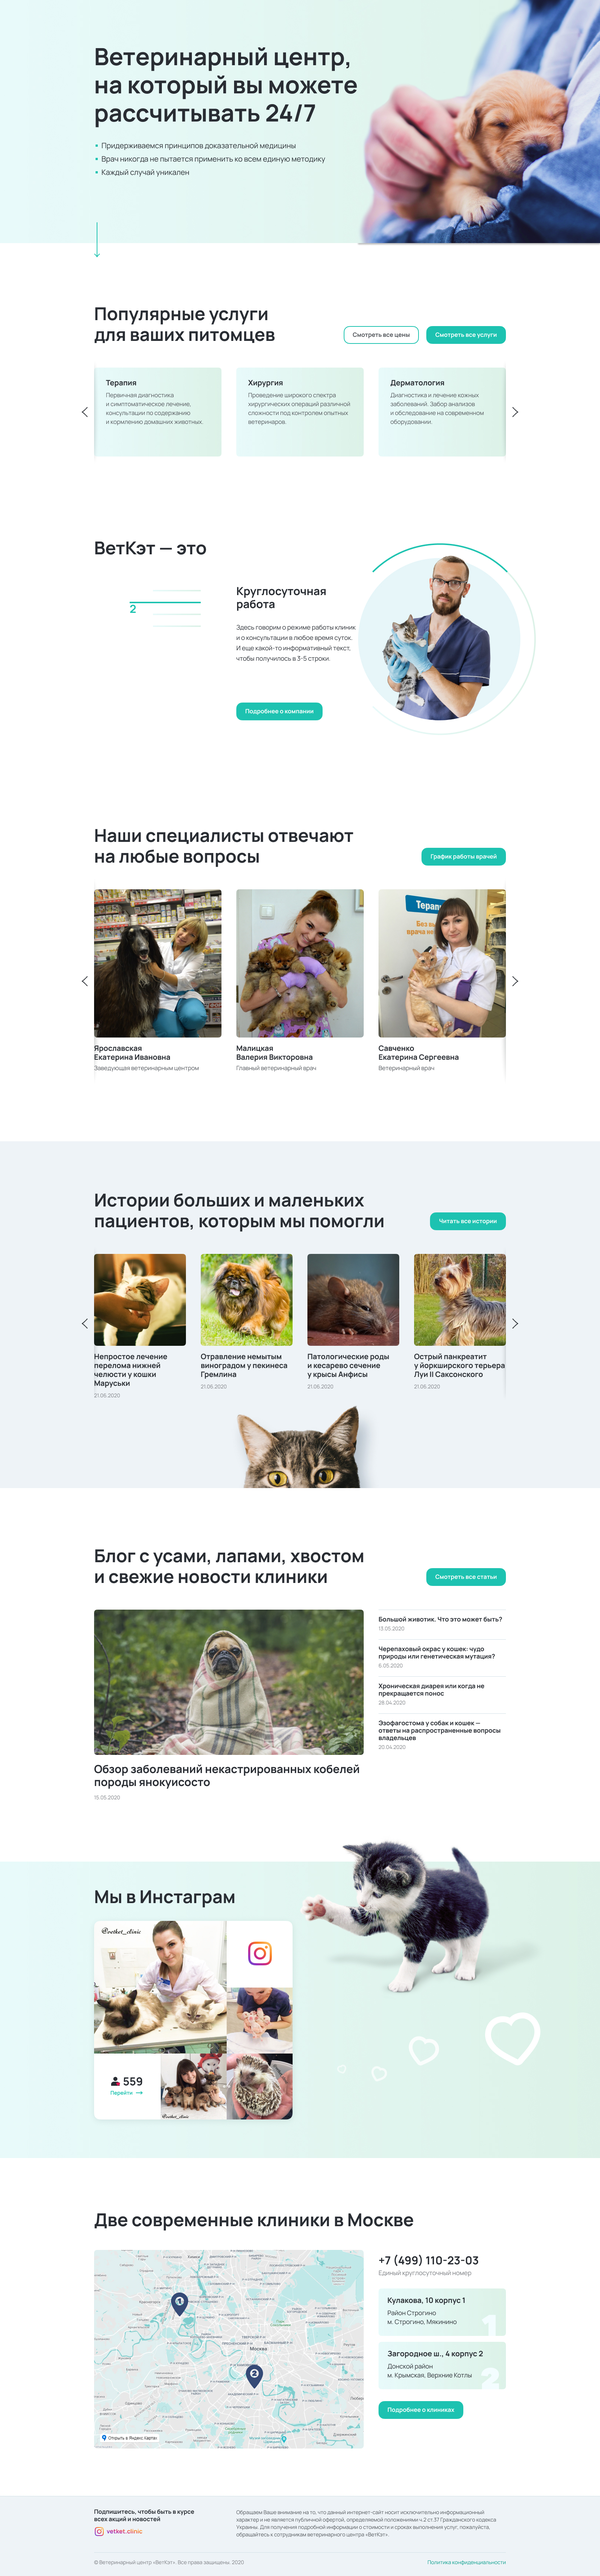
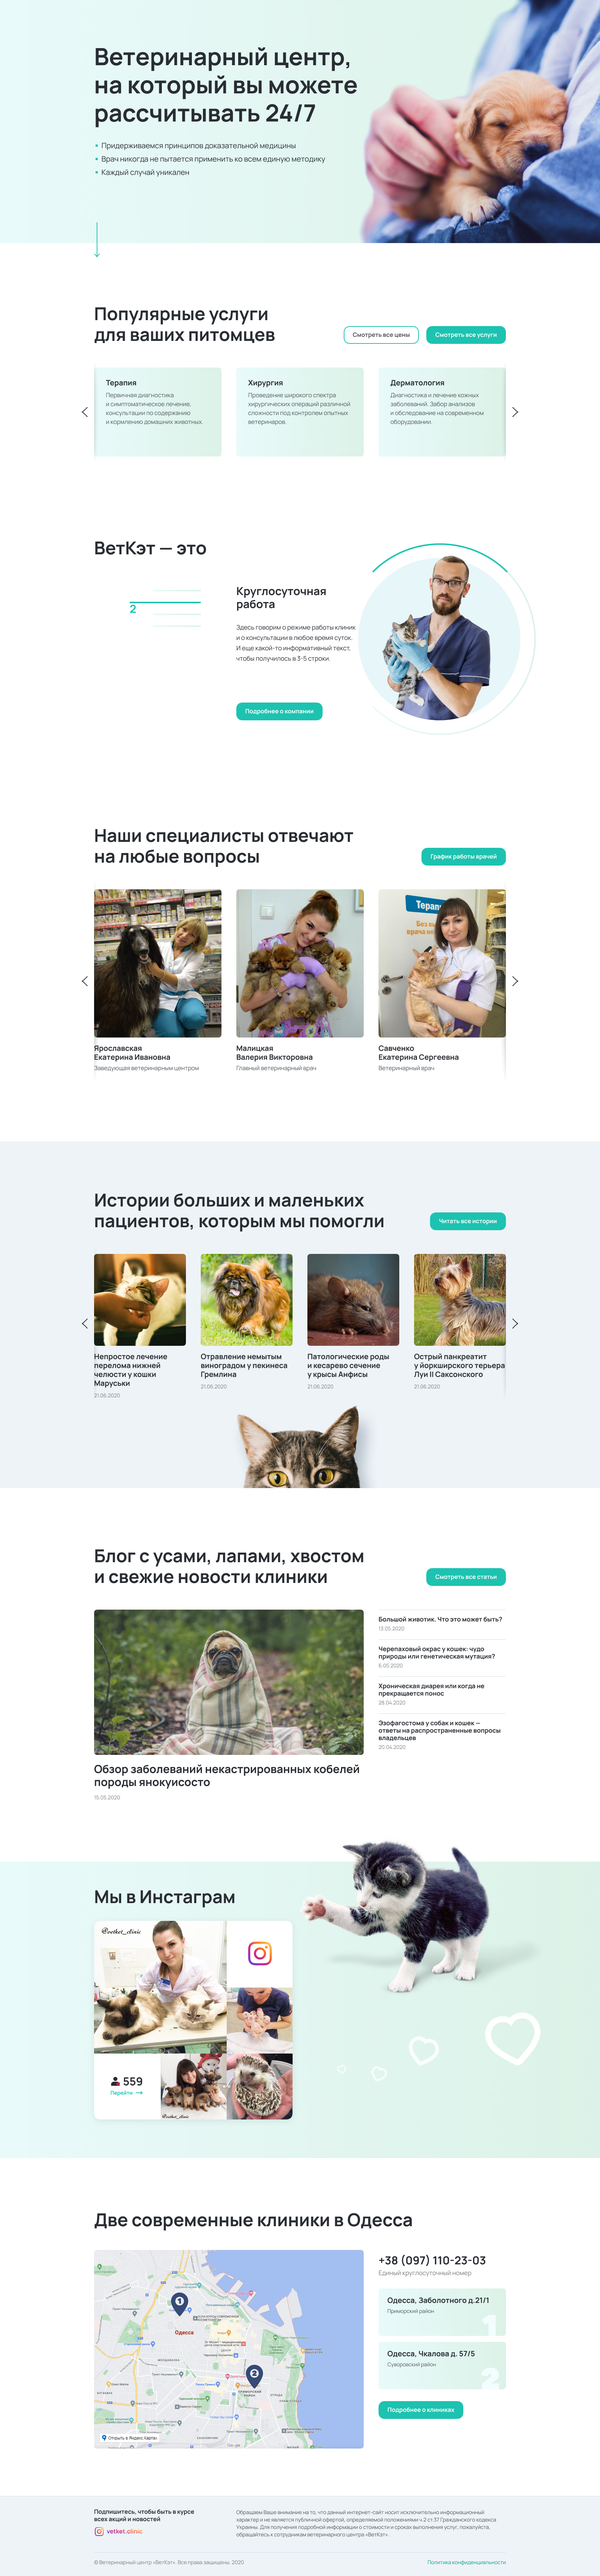
edits index

Changed region(s): [[0.1543, 0.8428, 0.6173, 0.9676], [0.6481, 0.874, 0.7716, 0.9364]]

diff --git a/src/html/index/adress.html b/src/html/index/adress.html
@@ -1,26 +1,26 @@
 <section class="adress">
   <div class="container">
     <div class="adress__body">
-      <h2 class="adress__title">Две современные клиники в Москве</h2>
+      <h2 class="adress__title">Две современные клиники в Одесса</h2>
       <div class="adress__bottom">
         <iframe title="Google Maps" src="https://www.google.com/maps/embed?pb=!1m14!1m8!1m3!1d2542.520083675568!2d30.628478!3d50.412781!3m2!1i1024!2i768!4f13.1!3m3!1m2!1s0x40d4c5083e560de1%3A0xbab7545eb25418af!2z0JLQtdGC0LXRgNC40L3QsNGA0L3QsCDQutC70ZbQvdGW0LrQsCBTdXBlclZldA!5e0!3m2!1suk!2sua!4v1688192683995!5m2!1suk!2sua" width="728" height="536" style="border:0;" allowfullscreen="" loading="lazy" referrerpolicy="no-referrer-when-downgrade"></iframe>
         <div class="adress__bottom-info">
-          <h3 class="adress__bottom-title">+7 (499) 110-23-03</h3>
+          <h3 class="adress__bottom-title">+38 (097) 110-23-03</h3>
           <p class="adress__bottom-subtitle">Единый круглосуточный номер</p>
           <div class="adress__bottom-cards">
             <div class="adress__bottom-card">
-              <h4 class="adress__bottom-card-title">Кулакова, 10 корпус 1</h4>
+              <h4 class="adress__bottom-card-title">Одесса, Заболотного д.21/1</h4>
               <p class="adress__bottom-card-subtitle">
-                Район Строгино <br> м. Строгино, Мякинино
+                Приморский район
               </p>
               <img src="./images/adress/1.png" alt="" class="adress__bottom-img" loading="lazy"/>
             </div>
             <div class="adress__bottom-card">
               <h4 class="adress__bottom-card-title">
-                Загородное ш., 4 корпус 2
+                Одесса, Чкалова д. 57/5
               </h4>
               <p class="adress__bottom-card-subtitle">
-                Донской район <br> м. Крымская, Верхние Котлы
+                Суворовский район
               </p>
               <img src="./images/adress/2.png" alt="" class="adress__bottom-img" loading="lazy"/>
             </div>
